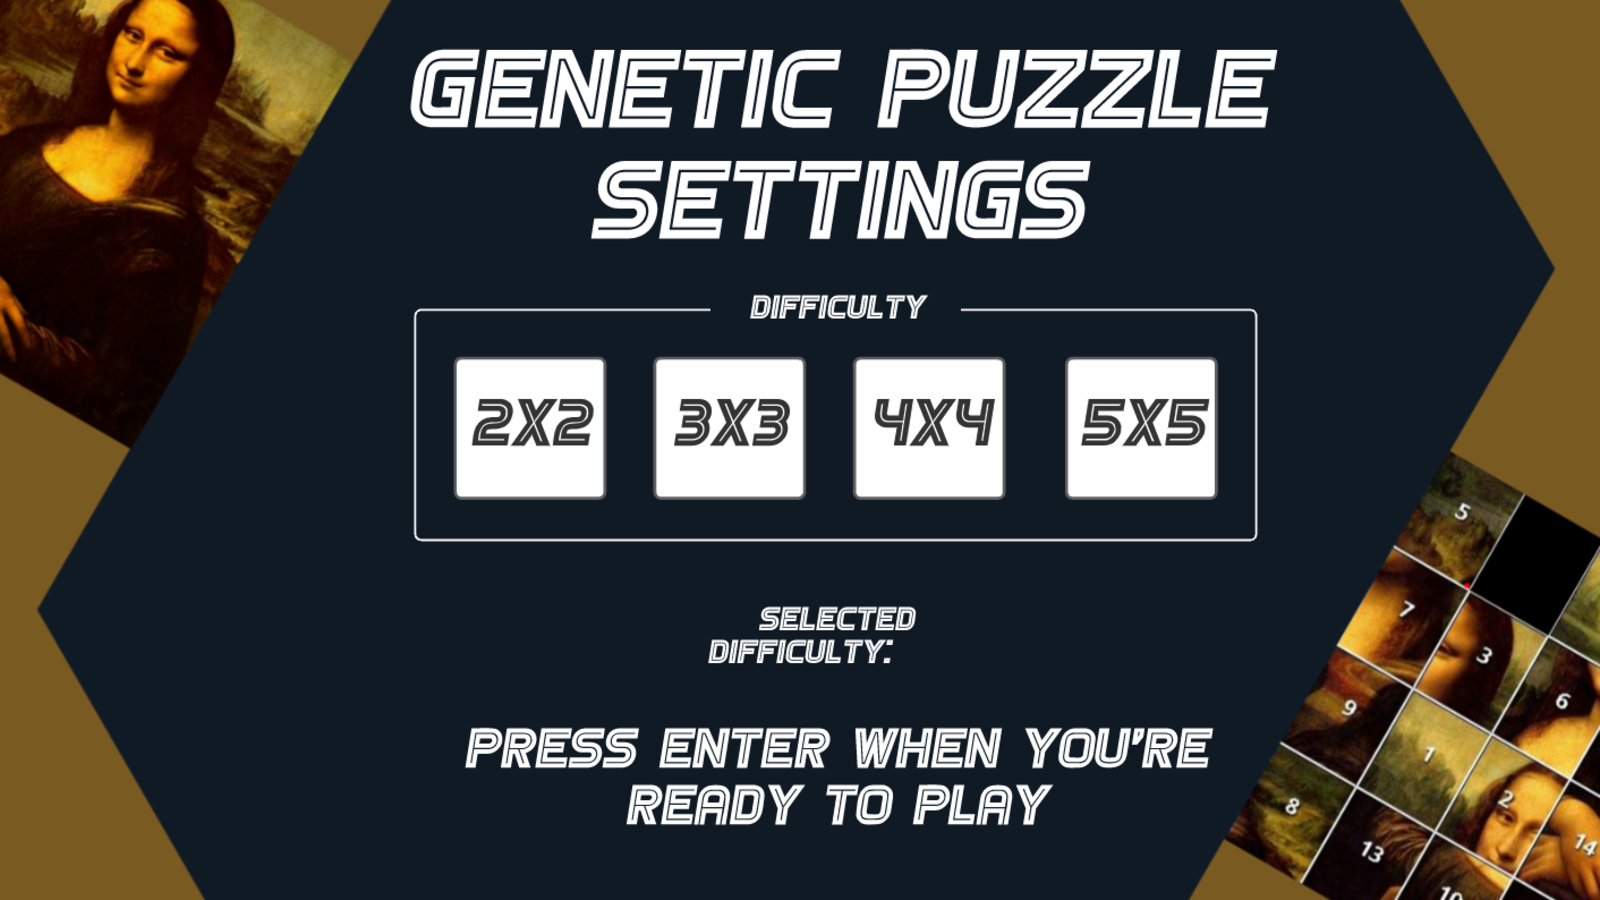
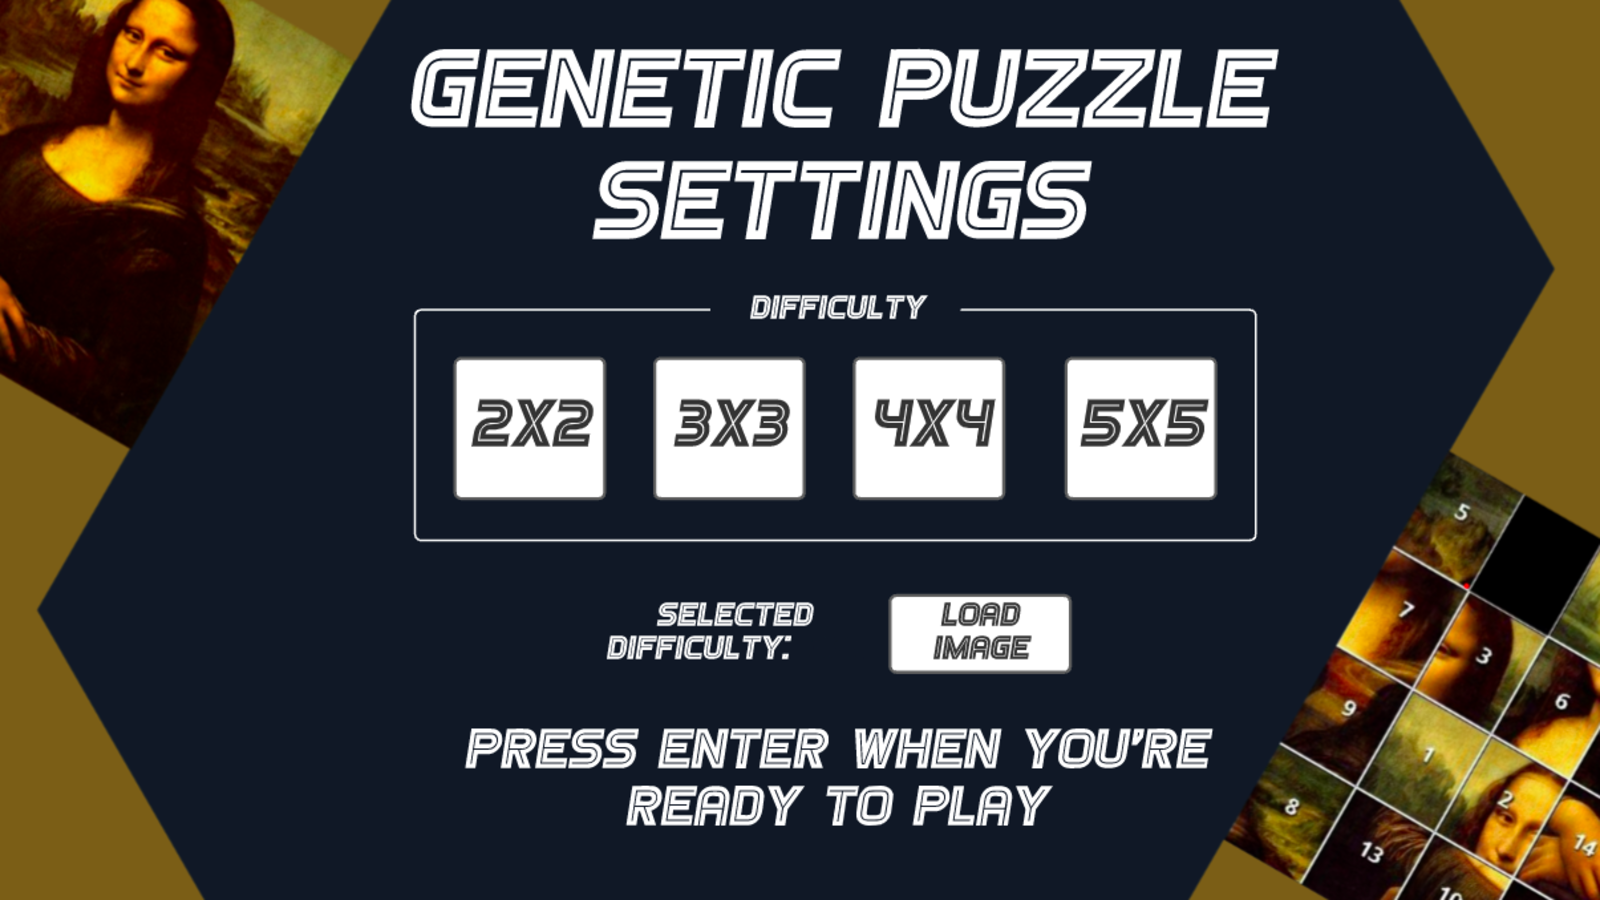
Added new background and started with image loader
Image loader working with std::cin

diff --git a/Views/GeneticPuzzleSettings.h b/Views/GeneticPuzzleSettings.h
@@ -7,6 +7,7 @@
 class GeneticPuzzleSettings {
 private:
     string difficulty = "2X2";
+    string imageState = "Waiting for\nimage...";
 public:
     int start() {
         int width = 1600;
@@ -19,6 +20,8 @@ public:
                 "../Resources/GeneticPuzzleSettingsBackground.png"))
             return EXIT_FAILURE;
         sf::Sprite geneticPuzzlesettingsBackgroudsprite(geneticPuzzlesettingsBackground);
+
+        sf::Texture selectedImage;
 
         //Font resource loading
         sf::Font font;
@@ -33,7 +36,15 @@ public:
         selectedDifficulty.setString(this->difficulty);
         selectedDifficulty.setCharacterSize(35);
         selectedDifficulty.setFillColor(sf::Color::White);
-        selectedDifficulty.setPosition(900, 629);
+        selectedDifficulty.setPosition(795, 625);
+
+        //Text of the selected difficulty
+        sf::Text loadImage;
+        loadImage.setFont(font);
+        loadImage.setString(this->imageState);
+        loadImage.setCharacterSize(25);
+        loadImage.setFillColor(sf::Color::White);
+        loadImage.setPosition(1100, 610);
 
         while (window.isOpen()) {
             sf::Event event;
@@ -62,6 +73,17 @@ public:
                                    event.mouseButton.y >= 360 &&
                                    event.mouseButton.y <= 500) { //Button for 5X5 difficulty
                             this->difficulty = "5X5";
+                        } else if (event.mouseButton.x >= 890 && event.mouseButton.x <= 1070 &&
+                                  event.mouseButton.y >= 595 &&
+                                  event.mouseButton.y <= 675) { //Button for image loading
+                            string imagePath;
+                            cin >> imagePath;
+                            if (!selectedImage.loadFromFile(
+                                    imagePath)){
+                                loadImage.setString("Couldn't load\nimage");
+                            }else{
+                                loadImage.setString("Image loaded\nsuccesfully!");
+                            }
                         }
                     }
                 }
@@ -84,6 +106,8 @@ public:
             window.draw(geneticPuzzlesettingsBackgroudsprite);
             selectedDifficulty.setString(this->difficulty);
             window.draw(selectedDifficulty);
+            loadImage.setString(this->imageState);
+            window.draw(loadImage);
             window.display();
         }
     }
